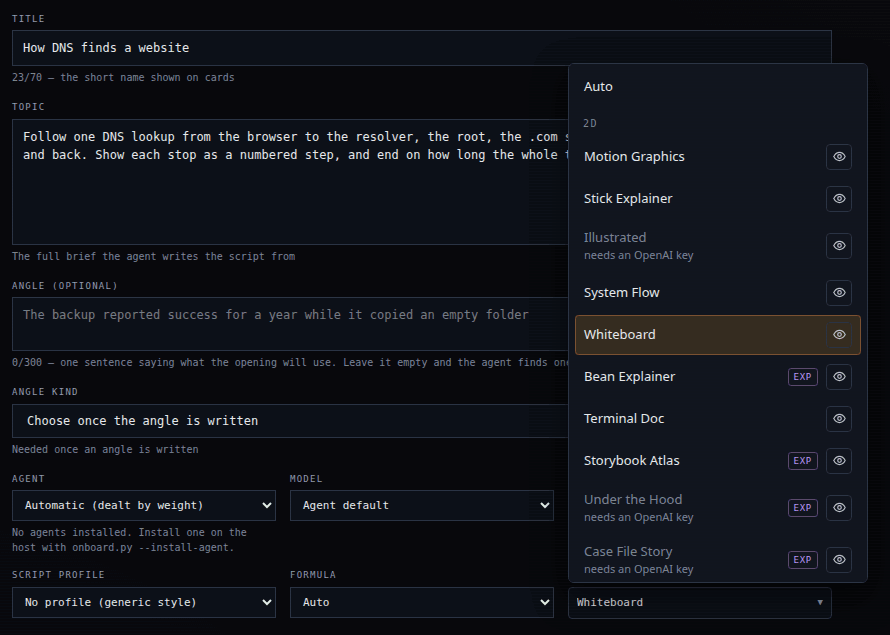
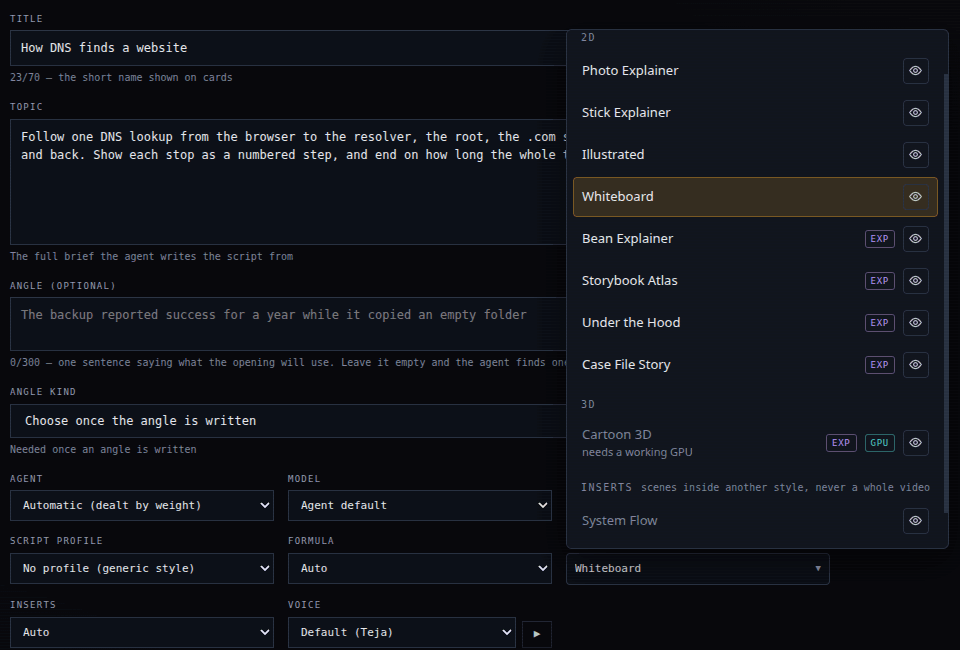
Docs images: re-take New Video, the style picker, Topics, Quick Actions and the video window with Inserts and Photo Explainer (TMDEV-224)

Changed region(s): [[0.0, 0.0, 1.0, 1.0], [0.9404, 0.0898, 0.9708, 0.1197]]

diff --git a/docs/user-guide/13-visual-styles-and-mascots.md b/docs/user-guide/13-visual-styles-and-mascots.md
@@ -167,7 +167,7 @@ Click the style field to open the list. **Auto** comes first, then the 2D styles
 styles. A style marked **EXP** is experimental. A style marked **GPU** renders on a GPU only. A
 style this install cannot make is greyed out, with the reason under its name.
 
-![The visual style list open on the New Video page: Auto, then the 2D styles, each with an eye button; Whiteboard is chosen, three styles are marked EXP, and three are greyed out with "needs an OpenAI key" under their names](../images/style-picker.png)
+![The visual style list open on the New Video page: the 2D styles, each with an eye button, with Whiteboard chosen and four styles marked EXP; under 3D, Cartoon 3D is greyed out with "needs a working GPU"; under Inserts, System Flow is greyed out because an insert style is never a whole video](../images/style-picker.png)
 
 The eye button on a row plays a few seconds of that style in a window, with **Prev** and **Next**
 to step through the others and **Use this style** to pick the one you are watching. Picking a style

diff --git a/docs/user-guide/03-using-tubematic.md b/docs/user-guide/03-using-tubematic.md
@@ -159,7 +159,7 @@ script and records it on the video. When your topic offers none, the agent says 
 and writes the script from the topic alone. The same happens to a topic that was proposed before
 angles existed.
 
-![The Topics page: three research mode switches, a list of mining sources, the form that adds a domain, and one row per domain with its pause button and its Edit defaults button. The second domain is open and shows its style, voice, formula, agent and topic cap](../images/topics.png)
+![The Topics page: three research mode switches, a list of mining sources, the form that adds a domain, and one row per domain with its pause button and its Edit defaults button. The second domain is open and shows its style, inserts, voice, formula, agent and topic cap](../images/topics.png)
 
 ### Adding a domain
 

diff --git a/docs/user-guide/04-dashboard.md b/docs/user-guide/04-dashboard.md
@@ -119,7 +119,7 @@ Two notices can appear on this page:
 
 ### The video window
 
-![The video window on its Video tab. The player is on the left. The side panel has the approval buttons, the video's details and its cost by service](../images/video-window.png)
+![The video window on its Video tab. The player is on the left, paused inside a Terminal Doc insert in a Whiteboard video. The side panel has the approval buttons and the video's details, including its Inserts row](../images/video-window.png)
 
 Click a card or a row to open the video. The left side has tabs:
 
